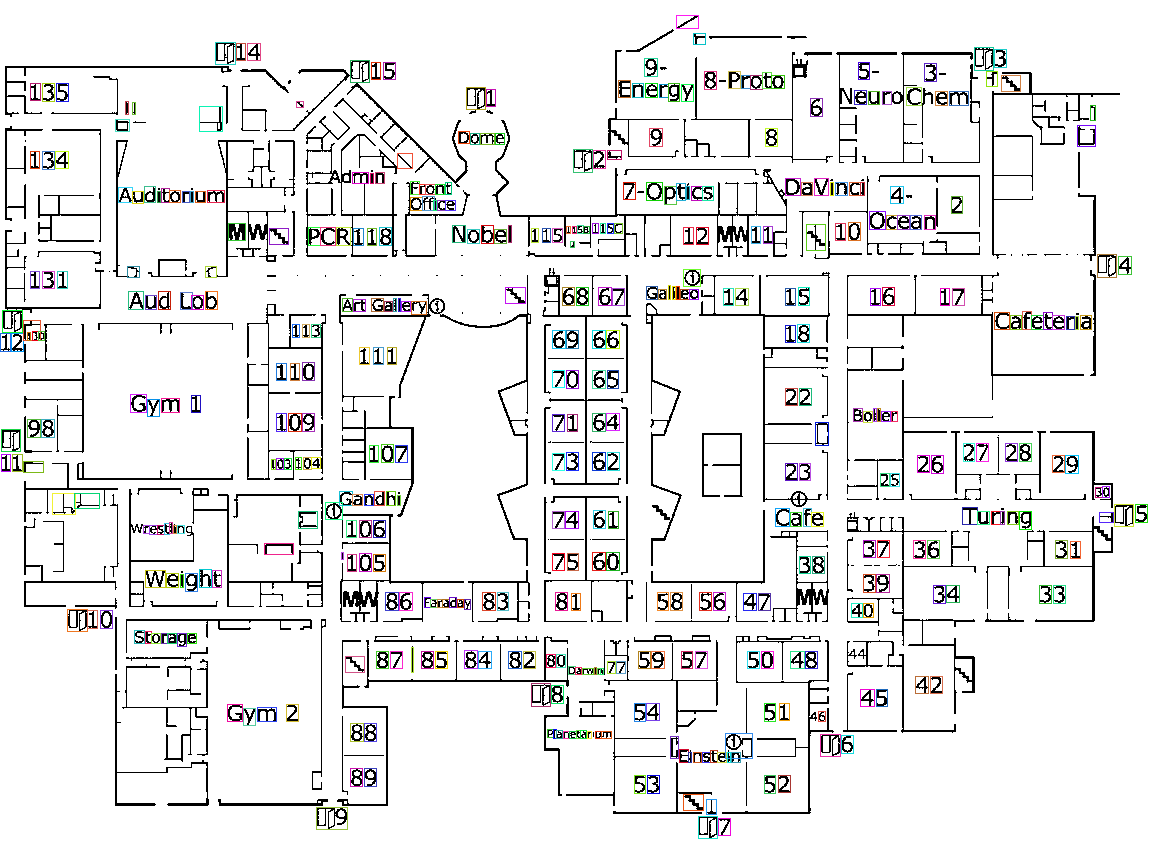
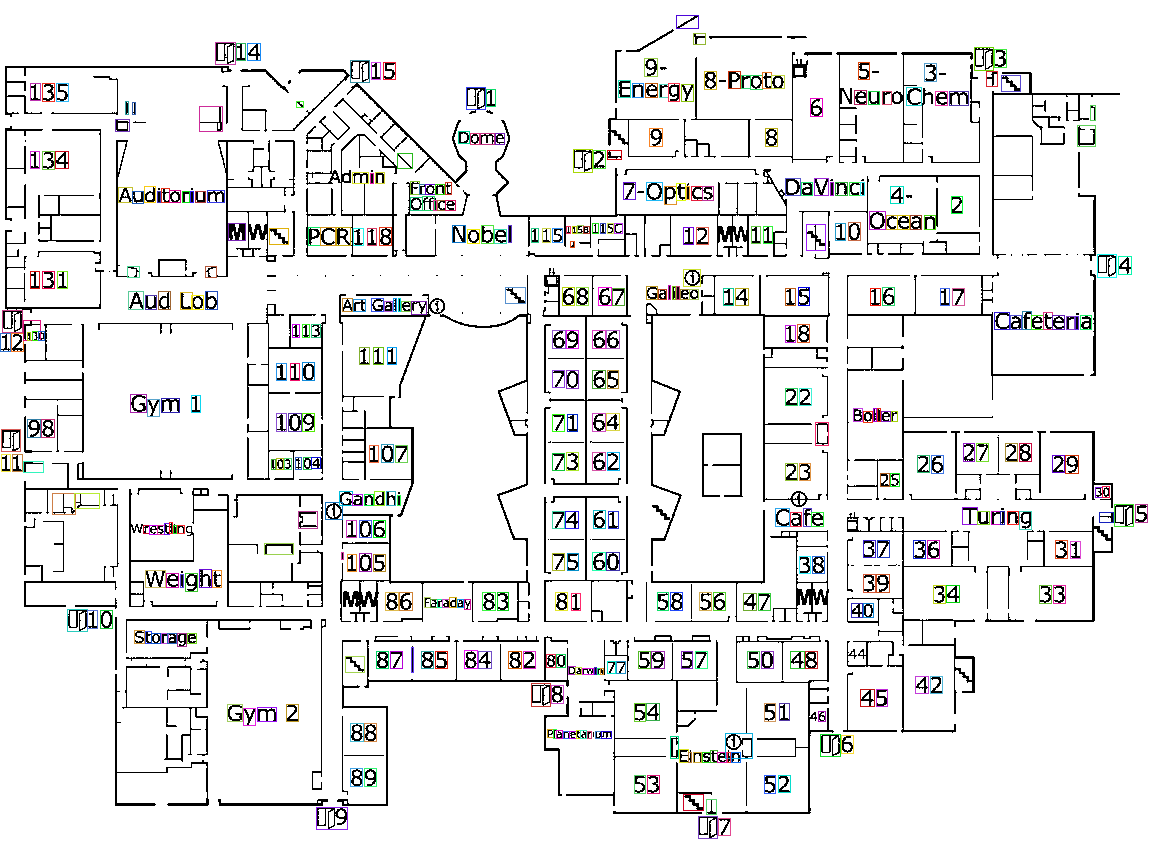
Update recognize characters

diff --git a/recognize_characters.py b/recognize_characters.py
@@ -1,4 +1,4 @@
-import colorsys 
+import colorsys
 import cv2 as cv
 import enchant
 import numpy as np
@@ -15,9 +15,10 @@ CONFIDENCE_LEVEL = 65
 IMAGE_SAVE_PATH = "images/"
 FILE_NAME = IMAGE_SAVE_PATH + "practice_map.jpg"
 DIST_BETWEEN_LETTERS = 15
+DIST_FOR_SPACE = 4
 Y_THRESHOLD = 4
 
-USING_TESSERACT = True
+USING_TESSERACT = False
 SHOW_IMAGES = False
 
 sys.setrecursionlimit(10000) # We don't talk about this line
@@ -135,7 +136,8 @@ def draw_boxes(pixels):
 
     return sorted(list(boxes), key = lambda b: (b[0], b[3])), list(walls)
 
-def predict_char(box, single_char = True):
+
+def predict_char(box, single_char = True, has_spaces = False):
     """
     Uses box coordinates to create a gray-scale PIL image specifically of that region (with padding)
     And checks if that image is of a door, and if not uses pytesseract to 
@@ -177,8 +179,8 @@ def predict_char(box, single_char = True):
             predict = pytesseract.image_to_data(
             image2, config=("-c tessedit"
                             "_char_whitelist=|-abcdefghijklmnopqrstuvwxyzABCDEFGHIJKLMNOPQRSTUVWXYZ0123456789"
-                            " --psm 10"
-                            " -l osd"), output_type="data.frame")        
+                            "--psm 10"
+                            "-l osd"), output_type="data.frame")        
             predict = predict[predict.conf != -1]
             try:
                 detected_char = str(predict["text"].iloc[0])[0]
@@ -187,8 +189,12 @@ def predict_char(box, single_char = True):
                 detected_char = ""
                 confidence = -1 
         else: # Full word
+            if has_spaces:
+                config = ("-c tessedit" "--psm 7") # 7 = Treat the image as a single text line.
+            else:
+                config = ("-c tessedit" "--psm 8") # 8 = Treat the image as a single word.
             predict = pytesseract.image_to_data(
-                image2, output_type="data.frame")
+                image2, config = config, output_type="data.frame")
             predict = predict[predict.conf != -1]
             try:
                 detected_char = " ".join(predict["text"].tolist())
@@ -209,7 +215,7 @@ def predict_char(box, single_char = True):
     return detected_char, confidence
 
 
-def generate_names(cur_box, used_boxes, detected_name):
+def generate_names(cur_box, used_boxes, detected_name, has_spaces = False):
     """
     Recursive function using the current box, used boxes, and detected name
     so far to check neighboring pixels and try to construct the full room name.
@@ -226,12 +232,26 @@ def generate_names(cur_box, used_boxes, detected_name):
         bx1, _, _, by2 = box
 
         if abs(ay2 - by2) <= Y_THRESHOLD and abs(ax2 - bx1) <= DIST_BETWEEN_LETTERS and all(pixels[x, ay2] != (0, 0, 0) for x in range(ax2, bx1)): # Part of same word
-            used_boxes, detected_name = generate_names(box, used_boxes, detected_name)
+            if abs(ax2 - bx1) >= DIST_FOR_SPACE: 
+                has_spaces = True               
+            
+            used_boxes, detected_name, has_spaces = generate_names(box, used_boxes, detected_name, has_spaces)
             break
 
-    return used_boxes, detected_name
+    return used_boxes, detected_name, has_spaces
 
-def process_image(boxes):
+
+def remove_box(pixels, box):
+    """
+    Replaces all pixels with white within a certain box region
+    """
+
+    for x in range(box[0], box[1]):
+        for y in range(box[2], box[3]):
+            pixels[x, y] = (255, 255, 255)
+
+
+def process_image(boxes, pixels):
     """
     Process the entire image to identify all integral parts using already-identified boxes.
     """
@@ -254,7 +274,7 @@ def process_image(boxes):
         if box in used_boxes:
             continue
 
-        used_boxes, detected_name = generate_names(box, used_boxes, [])
+        used_boxes, detected_name, has_spaces = generate_names(box, used_boxes, [])
         label = ""
 
         # Use full word
@@ -265,31 +285,40 @@ def process_image(boxes):
         for i in detected_name:
             y1 = min(y1, i[2])
             y2 = max(y2, i[3])
-        full_word, confidence = predict_char((first[0], last[1], y1, y2), False)
+        full_word_box = (first[0], last[1], y1, y2)
+        full_word, confidence = predict_char(full_word_box, False, has_spaces)
+        full_word.replace(",", "")
         if confidence >= CONFIDENCE_LEVEL:
             print("Full name:", full_word)
+            remove_box(pixels, full_word_box)
 
             for word in full_word.split(" "):
                 if word == "":
                     continue
                 if not d.check(word):
                     suggestions = [i for i in d.suggest(word) if len(i) == len(word)]
-                    print("Suggestions:", suggestions)
+                    if len(suggestions) == 1:
+                        print("Suggestion:", suggestions)
+                    # else:
+                    #     print("Too many suggestions")
         else: # Go individually
             label = "".join([pred[0] if (pred := predict_char(b))[1] >= CONFIDENCE_LEVEL else "*" for b in detected_name])
 
-            # Change lowercase L's to 1's in room names
+            for b in detected_name:
+                remove_box(pixels, b)
+
+            # Change lowercase L's and capital I's to 1's in room names
             change = True
             is_start = True
             for i in range(len(label)):
-                if label[i] == "l":
+                if label[i] in "lI":
                     continue
                 elif label[i].isnumeric() and is_start:
                     is_start = False
                 elif not is_start and not label[i].isnumeric():
                     change = False
             if change:
-                label = "".join([i if i != "l" else "1" for i in label])
+                label = "".join([i for i in label if i not in "lI"])
 
             # Change 0's to O's in room names
 
@@ -319,6 +348,8 @@ def process_image(boxes):
                 draw_line(pixels3, x1, x2, y2, y2, color)
                 draw_line(pixels3, x1, x1, y1, y2, color)
             
+            if x1 + 200 > WIDTH:
+                x1-= 200
             ImageDraw.Draw(image3).text((x1, y1), text, color, font = font)
 
             tk_image = ImageTk.PhotoImage(image3.resize((1000, 600)))
@@ -326,6 +357,7 @@ def process_image(boxes):
             image_label.pack()
             root.update()
             time.sleep(1.5)
+
 
 image = Image.open(FILE_NAME)
 pixels = image.load()
@@ -337,7 +369,9 @@ image_to_black_and_white(pixels)
 
 print("Drawing boxes...")
 boxes_image = image.copy()
+blank_image = image.copy()
 boxes_pixels = boxes_image.load()
+blank_pixels = blank_image.load()
 boxes, walls = draw_boxes(boxes_pixels) 
 with open("list_of_points.txt", "w") as f:
     for i in walls:
@@ -346,7 +380,9 @@ with open("list_of_points.txt", "w") as f:
 boxes_image.save(IMAGE_SAVE_PATH + "custom_boxes.png")
 
 print("Processing image...")
-process_image(boxes)    
+process_image(boxes, blank_pixels)    
+blank_image.show()
+blank_image.save(IMAGE_SAVE_PATH + "blank_map.png")
 
 if USING_TESSERACT:
     print("Saving updated boxes...")
@@ -362,15 +398,16 @@ In example image, this includes:
 - Signage
 - Door
 
+Not detecting 1s?
+
 Find complete room names / door numbers that are not text-wrapped and combine them
 - Instead of just checking right, check below also and make sure there are no pixels between two boxes
-
-Try to remove dots above i's
+For example, in practice image:
+- Detects Door and 1 separately
+- Detects 9 and like Neuro or something separately
 
 Check pixels in between letters and pixels along the side, if not connected?
-
 For example, in practice image:
-- Doesn't identify the first "i" in Einstein
 - Doesn't identify "N" and "o" in Neuro since those letters are connected to walls
 - Doesn't identify "h" in Chem since h is connected to wall
 - Doesn't identify "A" and "d" in Admin, but catches "min"
